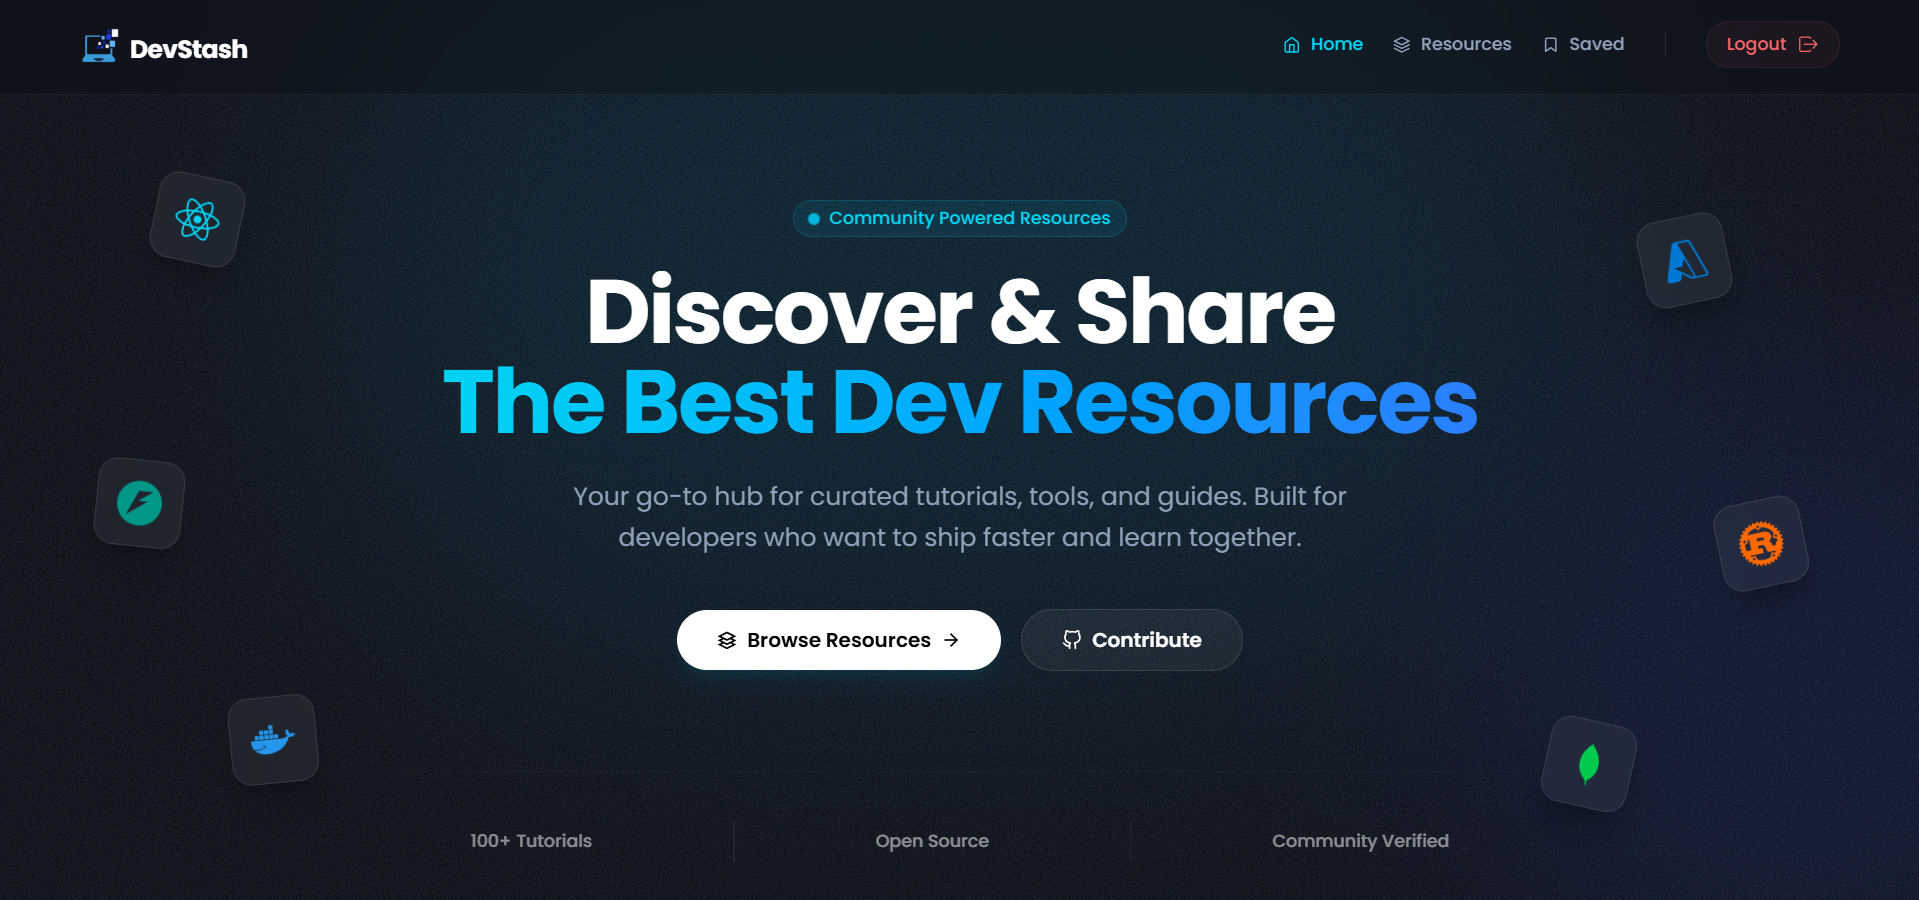
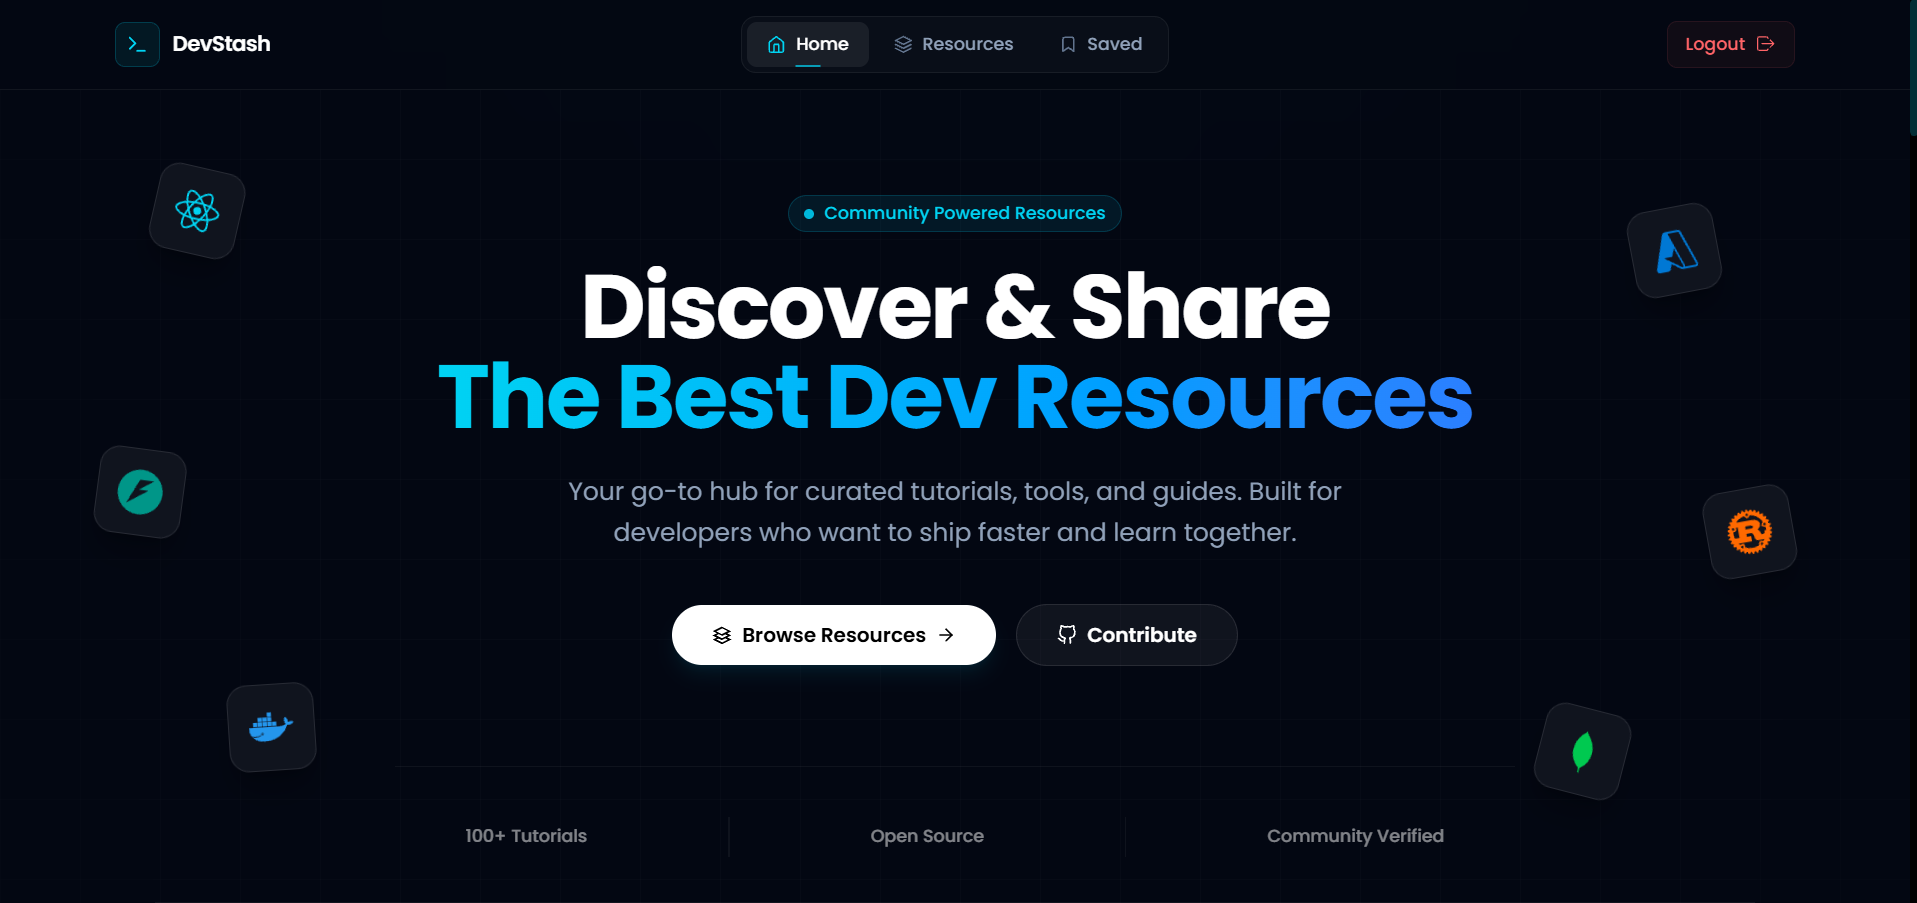
feat: added new freelance project

diff --git a/src/Pages/Projects.jsx b/src/Pages/Projects.jsx
@@ -112,6 +112,16 @@ const PERSONAL_PROJECTS = [
 // freelance projects data
 const FREELANCE_PROJECTS = [
     {
+        title: "PrinceEdits",
+        client: "Prince Pal",
+        summary: "Video editor portfolio website created for Prince Pal, featuring a modern visual design, smooth animations, and responsive layouts to showcase his video editing work and creative projects.",
+        tech: ["React", "Tailwind CSS", "Framer Motion"],
+        image: "/images/Projects/Freelance/PrinceEdits.png",
+        live: "https://prince-edits.vercel.app/",
+        github: null,
+        icon: <LuLayers className="text-amber-400" />,
+    },
+    {
         title: "Krutrim Insights Website",
         client: "Krutrim Insights",
         summary: "An interconnected full-stack Admin, Mentor, and Student portal infrastructure backed by robust serverless logic. Engineered an advanced cloud architecture featuring 16 database tables, 12 API Gateways, 29 API routes, 13 Lambda functions, and automated email workflows via AWS SES.",
